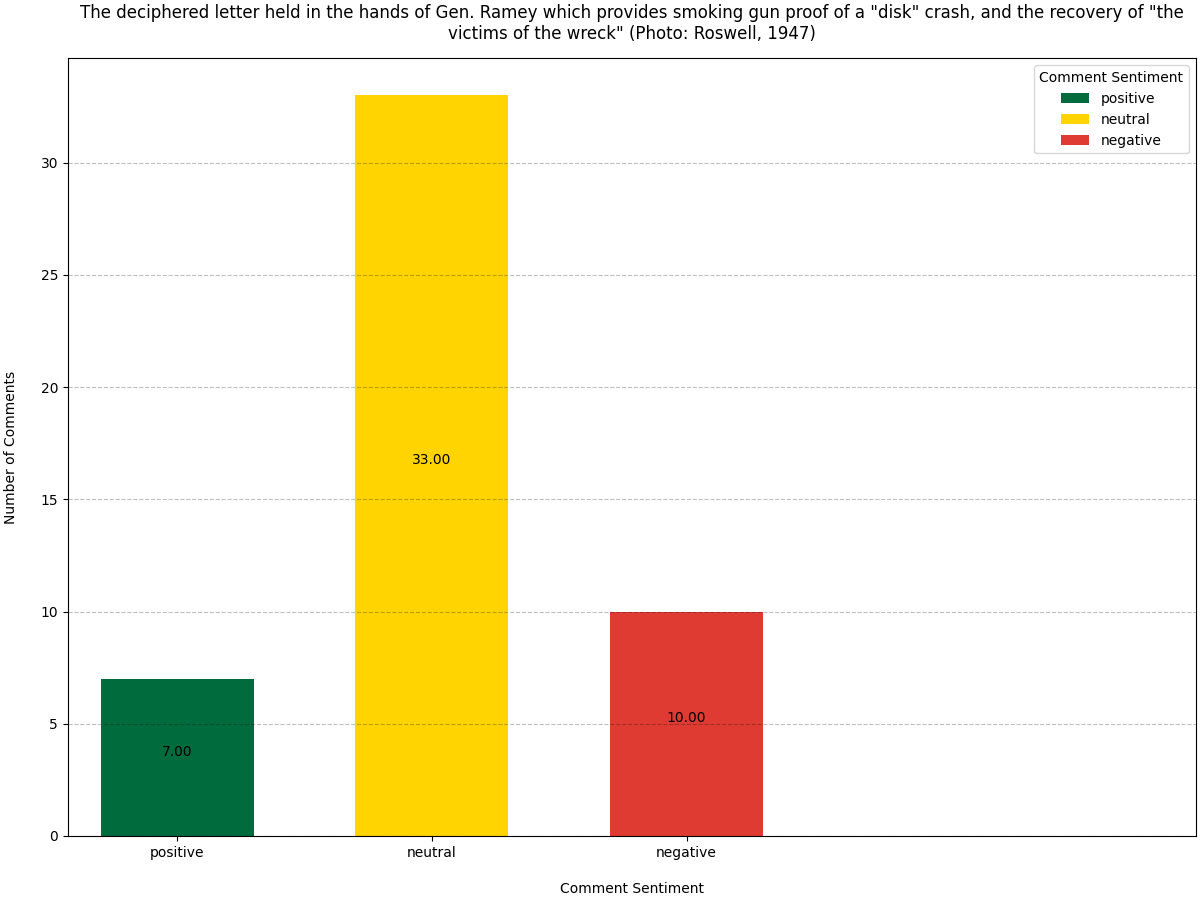
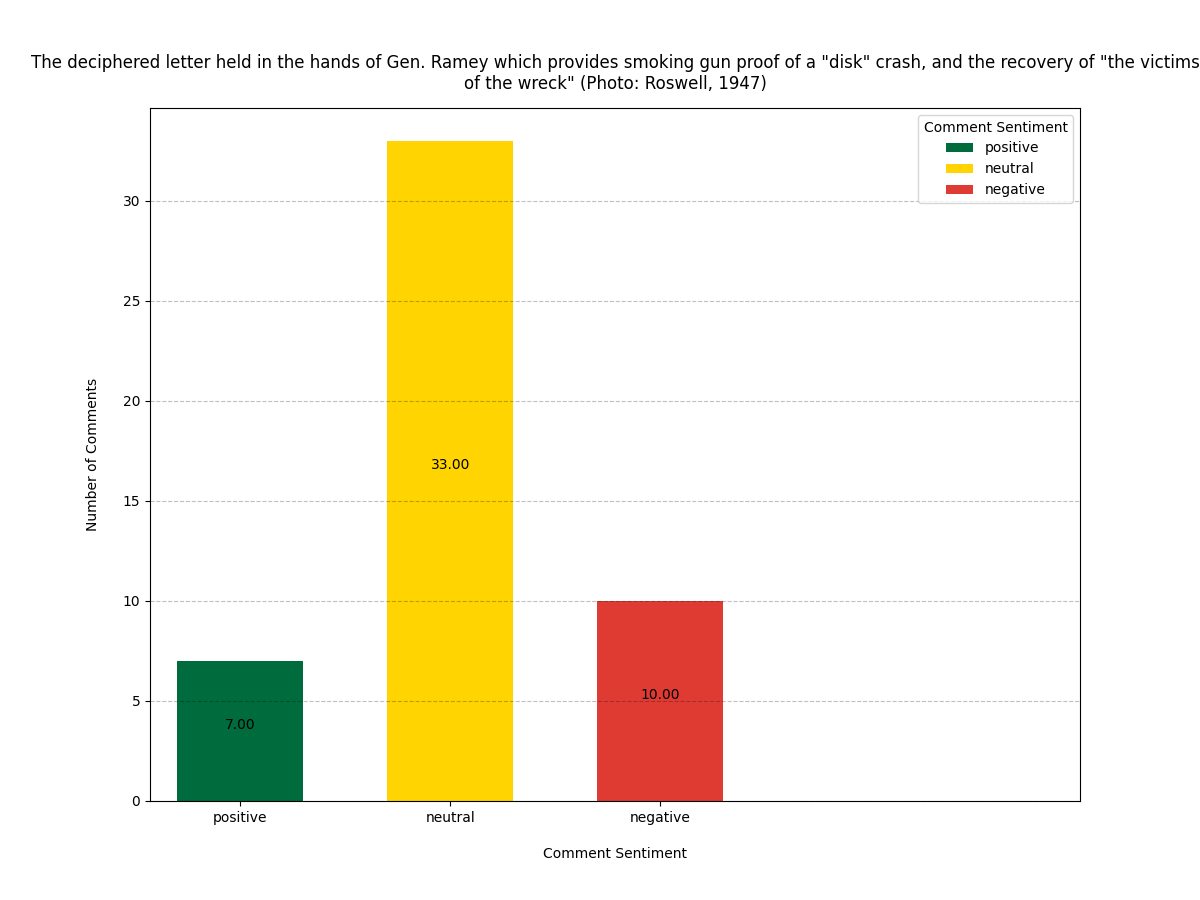
P6 v5

diff --git a/CS325_p3/module_2/saai.py b/CS325_p3/module_2/saai.py
@@ -97,12 +97,12 @@ def PlotSentimentBarGraph(fileName: str, header: str, id: str,  xLabel: str = "C
         sentimentTypes = ["positive", "neutral", "negative"]
         sentimentTotals = TallySentiments(ReadFileSentiments(fileName))
         sentimentColors = [(0.0, 0.42, 0.24), (1.0, 0.83, 0.0), (0.88, 0.23, 0.20)]
-        fig, ax1 = matplot.subplots(figsize=(12, 9), layout='constrained')
+        fig, ax1 = matplot.subplots(figsize=(12, 9))
         fig.canvas.manager.set_window_title('Comment Sentiment Graph')
         ax1.yaxis.grid(True, linestyle='--', which='major', color='black', alpha=.25)
-        bar = ax1.bar(sentimentTypes, sentimentTotals, label=sentimentTypes, width=0.6, color=sentimentColors)
+        bar = matplot.bar(sentimentTypes, sentimentTotals, label=sentimentTypes, width=0.6, color=sentimentColors)
         matplot.legend(title='Comment Sentiment', bbox_to_anchor=(1, 1))
-        matplot.title(header, pad=16, wrap=True)
+        matplot.title(header, loc='center', pad=16, wrap=True)
         matplot.xlabel(xLabel, labelpad=16)
         matplot.ylabel(yLabel, labelpad=16)
         matplot.bar_label(bar, label_type='center', padding=4, fmt='%0.2f')
